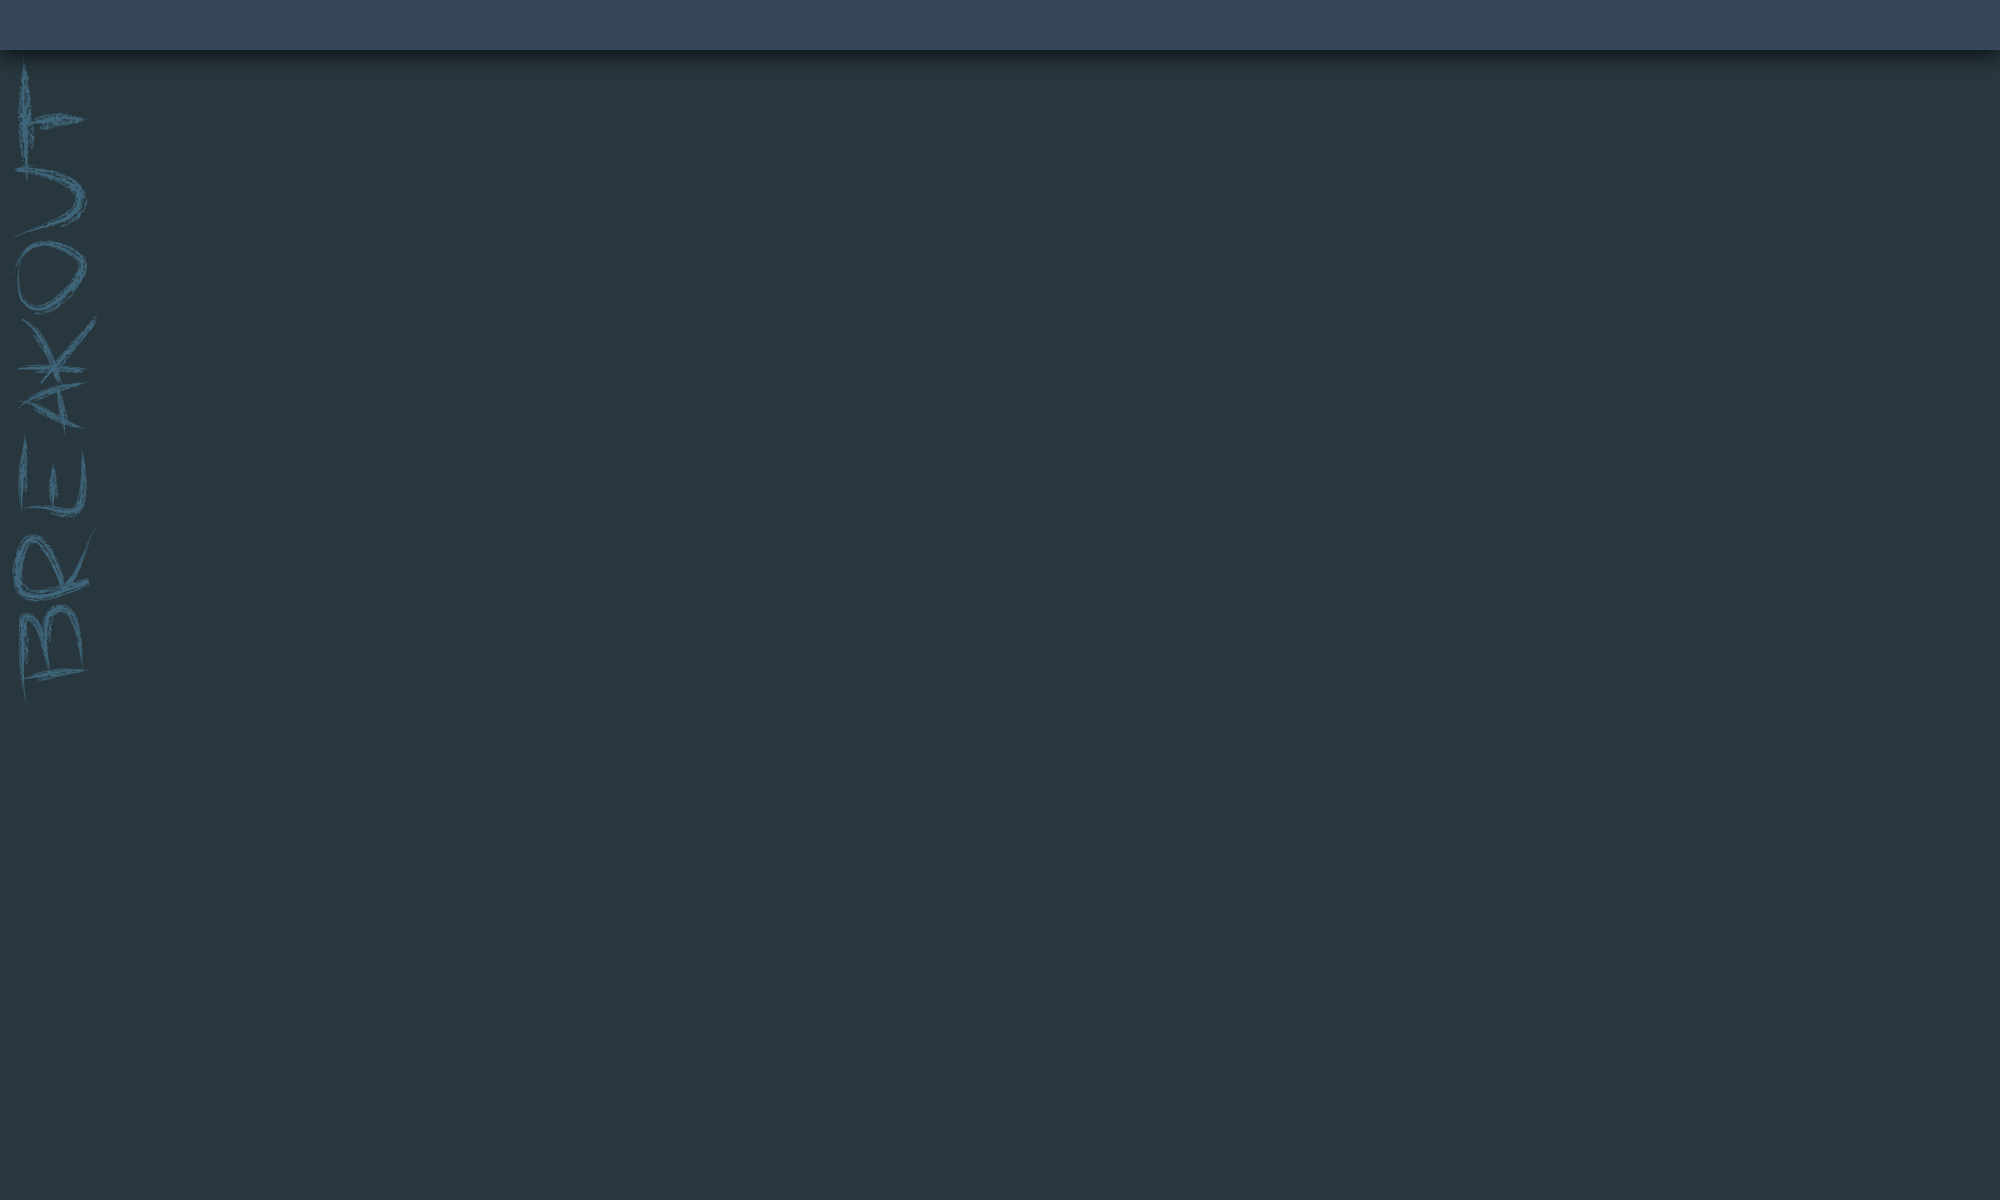
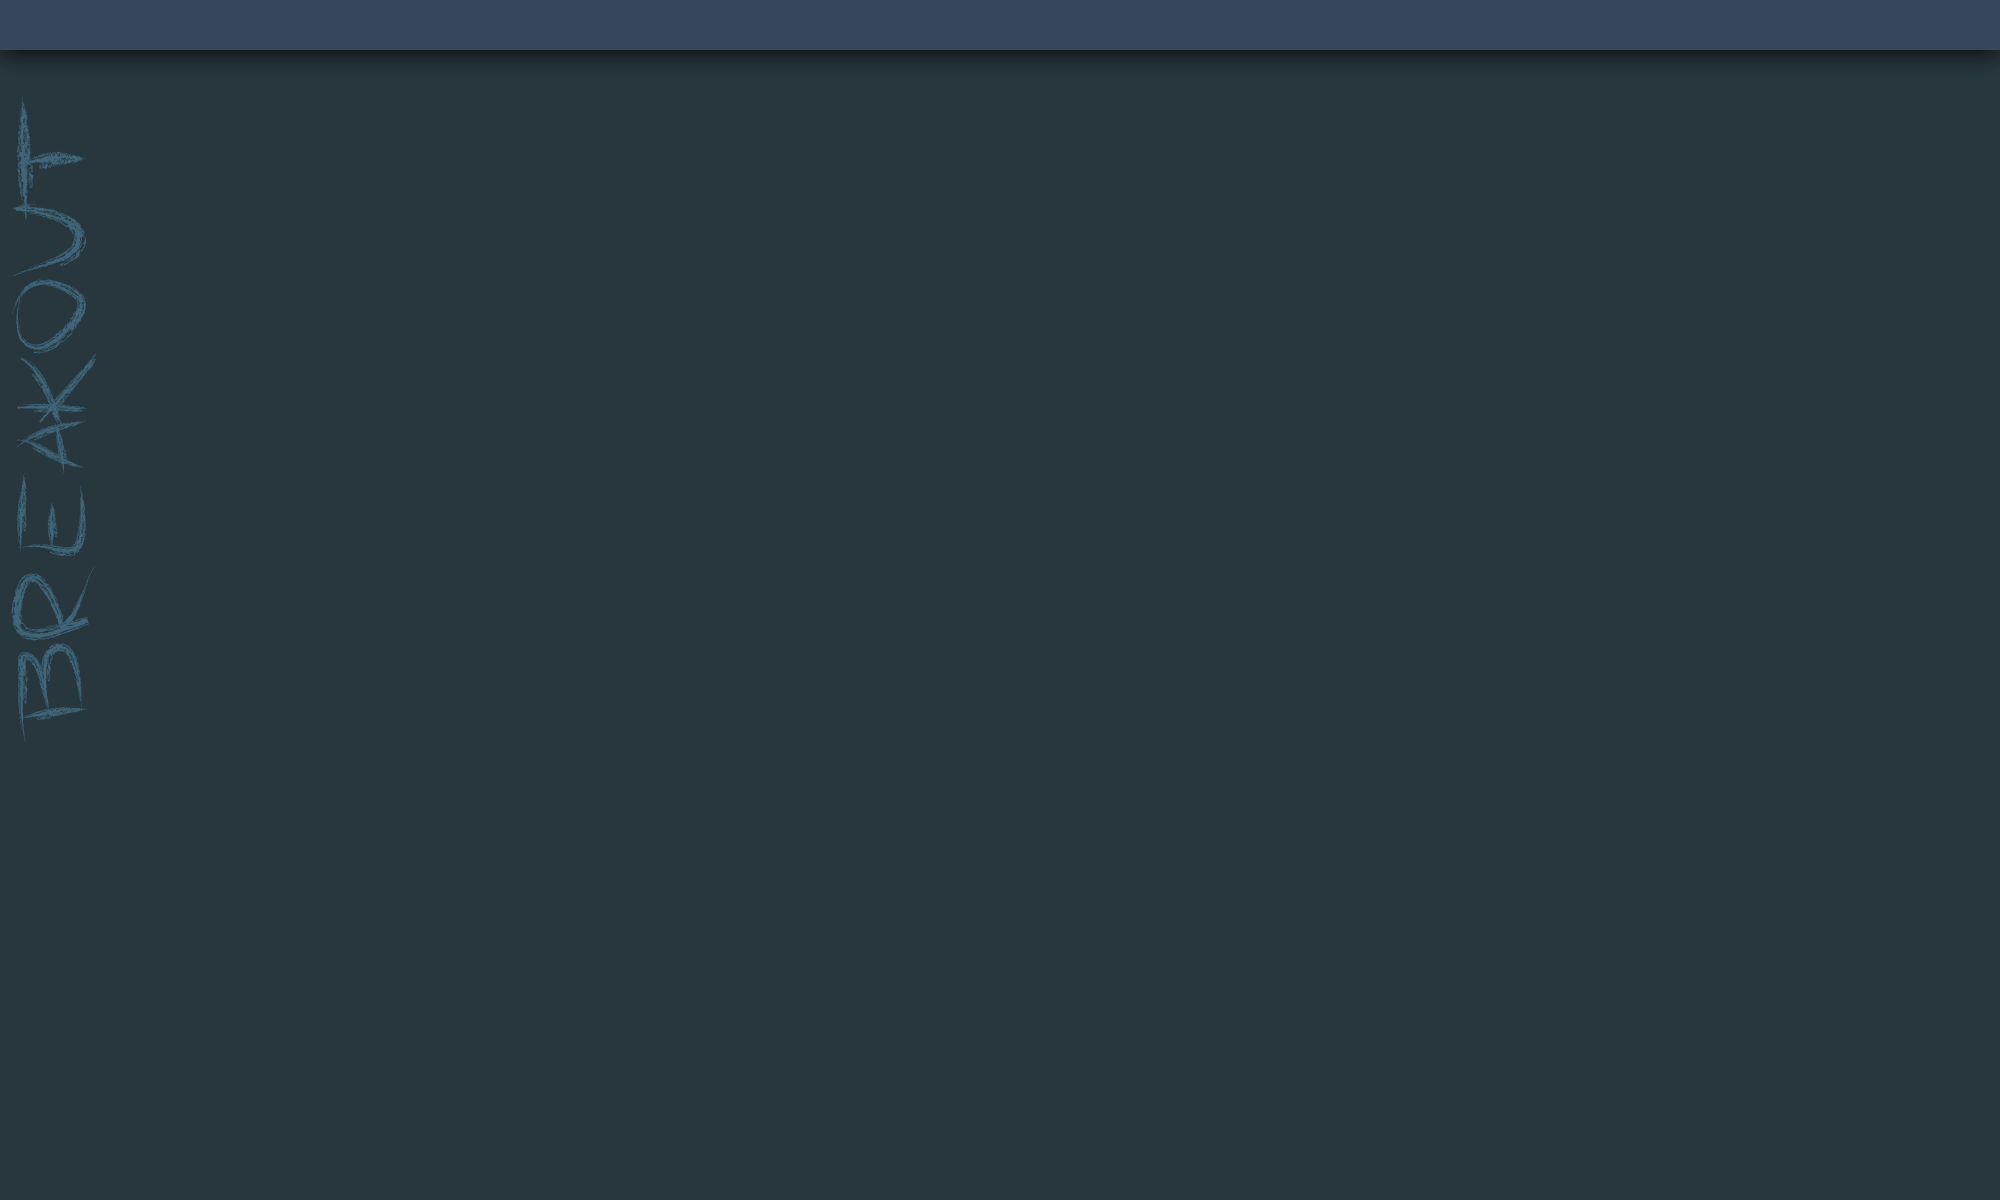
Scorepanel fixed!

Changed region(s): [[0.0, 0.0617, 0.062, 0.6167]]

diff --git a/src/be/howest/groep5/breakout/model/multimedia/Multimedia.java b/src/be/howest/groep5/breakout/model/multimedia/Multimedia.java
@@ -10,13 +10,14 @@ import java.nio.Buffer;
  * Created by Dries Dekoninck on 15/12/2014.
  */
 public class Multimedia{
-    private BufferedImage image, mainBackground, subbackground, contentbackground, gamebackground;
+    private BufferedImage image, mainBackground, subbackground, scorebackground, gamebackground;
     private boolean playing = true;
 
     public Multimedia() {
         try {
             image = (ImageIO.read(new File("src/be/howest/groep5/breakout/multimedia/pictures/Icon.png")));
             mainBackground = (ImageIO.read(new File("src/be/howest/groep5/breakout/multimedia/pictures/background.png")));
+            scorebackground = (ImageIO.read(new File("src/be/howest/groep5/breakout/multimedia/pictures/@background.png")));
             subbackground = (ImageIO.read(new File("src/be/howest/groep5/breakout/multimedia/pictures/subbackground.png")));
             gamebackground = (ImageIO.read(new File("src/be/howest/groep5/breakout/multimedia/pictures/gamebackground.png")));
         } catch (IOException e) {
@@ -38,5 +39,6 @@ public class Multimedia{
         return  mainBackground;
     }
     public BufferedImage getSubbackground() { return subbackground; }
+    public BufferedImage getScorebackground() { return scorebackground; }
     public BufferedImage getGamebackground() { return gamebackground; }
 }

diff --git a/src/be/howest/groep5/breakout/view/game/GamePanel.java b/src/be/howest/groep5/breakout/view/game/GamePanel.java
@@ -24,9 +24,11 @@ public class GamePanel extends JPanel {
     private int levelNumber, numberOfBlocks, difficulty;
     private ScreenCreate screenCreate;
     private ScorePanel scorePanel;
+    private JPanel parent;
 
-    public GamePanel(CenterPanel c, boolean singleplayer, int difficulty){
+    public GamePanel(CenterPanel c, boolean singleplayer, int difficulty, JPanel parent){
 
+        this.parent = parent;
         centerPanel = c;
         this.singleplayer = singleplayer;
         this.difficulty = difficulty;
@@ -49,6 +51,8 @@ public class GamePanel extends JPanel {
         setRequestFocusEnabled(true);
         requestFocusInWindow();
     }
+
+    public JPanel getCenterPanel() { return parent; }
 
     private int getNumberOfBlocks(int difficulty){
         if(difficulty == 0)

diff --git a/src/be/howest/groep5/breakout/controller/game/StartGameController.java b/src/be/howest/groep5/breakout/controller/game/StartGameController.java
@@ -34,7 +34,7 @@ public class StartGameController implements ActionListener {
     @Override
     public void actionPerformed(ActionEvent e) {
         Database.DatabaseInstance.insertGameMode(new Gamemode(singleplayer, difficulty.getSelectedIndex()));
-        panelCenter.addGamePanel(new GamePanel(panelCenter, singleplayer, difficulty.getSelectedIndex()));
+        panelCenter.addGamePanel(new GamePanel(panelCenter, singleplayer, difficulty.getSelectedIndex(), panelCenter));
         panelCenter.getGamePanel().startGame();
         panelCenter.setGameMode(singleplayer);
         System.out.println("set: " + singleplayer);

diff --git a/src/be/howest/groep5/breakout/view/game/ScorePanel.java b/src/be/howest/groep5/breakout/view/game/ScorePanel.java
@@ -126,7 +126,7 @@ public class ScorePanel extends JPanel implements ScoreObserver {
 
 
     private void setBackground() {
-        background = multimedia.getMainBackground();
+        background = multimedia.getScorebackground();
         repaint();
     }
 
@@ -140,6 +140,9 @@ public class ScorePanel extends JPanel implements ScoreObserver {
     @Override
     public void update(int p1Score, int p2score, int numberOfLifesLeft) {
         changeTexts(p1Score, p2score, numberOfLifesLeft);
+        if (numberOfLifesLeft == 0) {
+            gamePanel.getCenterPanel().remove(this);
+        }
     }
 }
 

diff --git a/src/be/howest/groep5/breakout/view/welcome/CenterPanel.java b/src/be/howest/groep5/breakout/view/welcome/CenterPanel.java
@@ -35,7 +35,7 @@ public class CenterPanel extends JPanel {
     private void createComponents(){
         panelContent = new ContentPanel(this);
         panelButton = new ButtonPanel(panelContent);
-        gamePanel = new GamePanel(this,isSinglePlayer,0);
+        gamePanel = new GamePanel(this,isSinglePlayer,0, this);
         scorePanel = new ScorePanel(gamePanel, isSinglePlayer);
         multimedia = new Multimedia();
         background = multimedia.getSubbackground();
